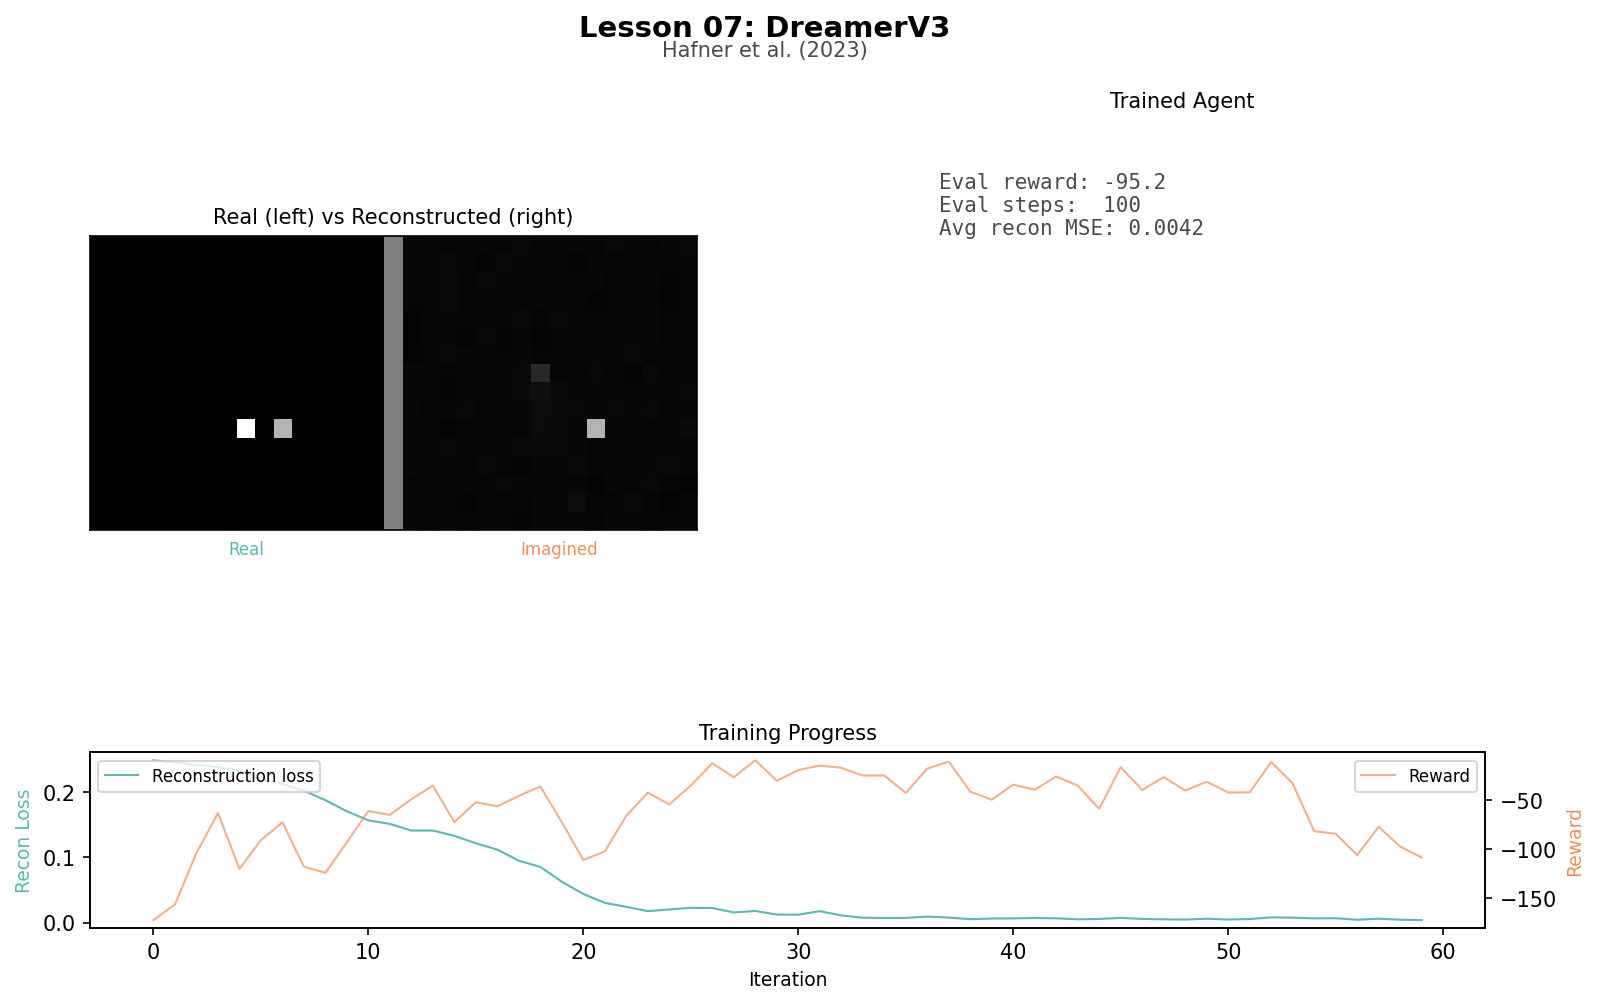
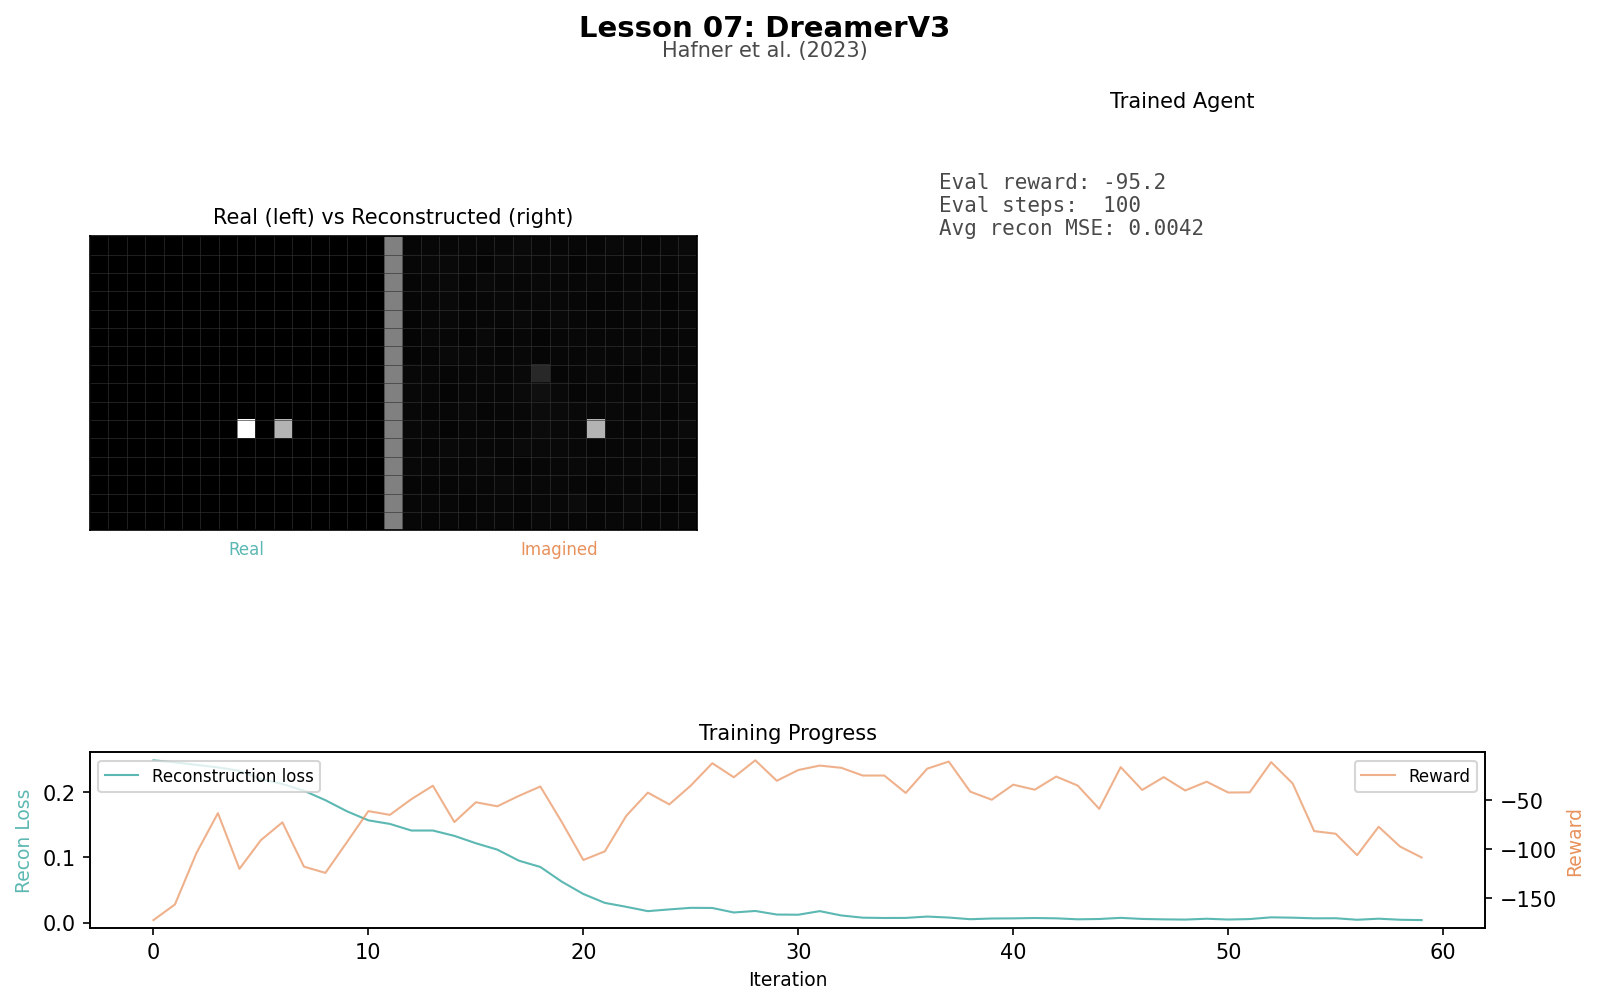
Adds pixel grid overlay to draw_pixel_env and draw_real_vs_imagined
Mid-gray (#333333) grid lines at pixel boundaries make individual
cells visible against the dark background. Shared _add_pixel_grid
helper used by both functions.

Changed region(s): [[0.0613, 0.3085, 0.429, 0.401], [0.0613, 0.4318, 0.429, 0.4935], [0.0613, 0.2468, 0.429, 0.2776]]

diff --git a/src/policywerk/viz/trajectories.py b/src/policywerk/viz/trajectories.py
@@ -373,6 +373,14 @@ def draw_breakout_frame(
                 fontfamily="monospace")
 
 
+def _add_pixel_grid(ax: plt.Axes, rows: int, cols: int) -> None:
+    """Overlay a subtle grid so individual pixels are visible on dark backgrounds."""
+    for r in range(rows + 1):
+        ax.axhline(r - 0.5, color="#333333", linewidth=0.3, zorder=2)
+    for c in range(cols + 1):
+        ax.axvline(c - 0.5, color="#333333", linewidth=0.3, zorder=2)
+
+
 def draw_pixel_env(
     ax: plt.Axes,
     frame: Matrix,
@@ -380,12 +388,13 @@ def draw_pixel_env(
     """Display a pixel-grid environment (e.g. 16×16) as an image.
 
     frame: rows × cols matrix of floats (0.0 = empty, higher = objects).
-    Uses reversed grayscale: 0.0 = white (empty), 1.0 = black (agent).
     """
     ax.clear()
-    # interpolation="nearest" keeps pixels as sharp squares (no blurring)
+    rows = len(frame)
+    cols = len(frame[0]) if frame else 0
     ax.imshow(frame, cmap="gray", interpolation="nearest",
               vmin=0.0, vmax=1.0, aspect="equal")
+    _add_pixel_grid(ax, rows, cols)
     ax.set_xticks([])
     ax.set_yticks([])
 
@@ -458,12 +467,12 @@ def draw_real_vs_imagined(
         for c in range(cols_i):
             combined[r][cols_r + gap + c] = imagined_frame[r][c]
 
+    total_rows = max(rows_r, rows_i)
     ax.imshow(combined, cmap="gray", interpolation="nearest",
               vmin=0.0, vmax=1.0, aspect="equal")
+    _add_pixel_grid(ax, total_rows, combined_cols)
     ax.set_xticks([])
     ax.set_yticks([])
-
-    total_rows = max(rows_r, rows_i)
     ax.text(cols_r / 2, total_rows + 0.8, "Real", ha="center", fontsize=8, color=TEAL)
     ax.text(cols_r + gap + cols_i / 2, total_rows + 0.8, "Imagined", ha="center",
             fontsize=8, color=ORANGE)
